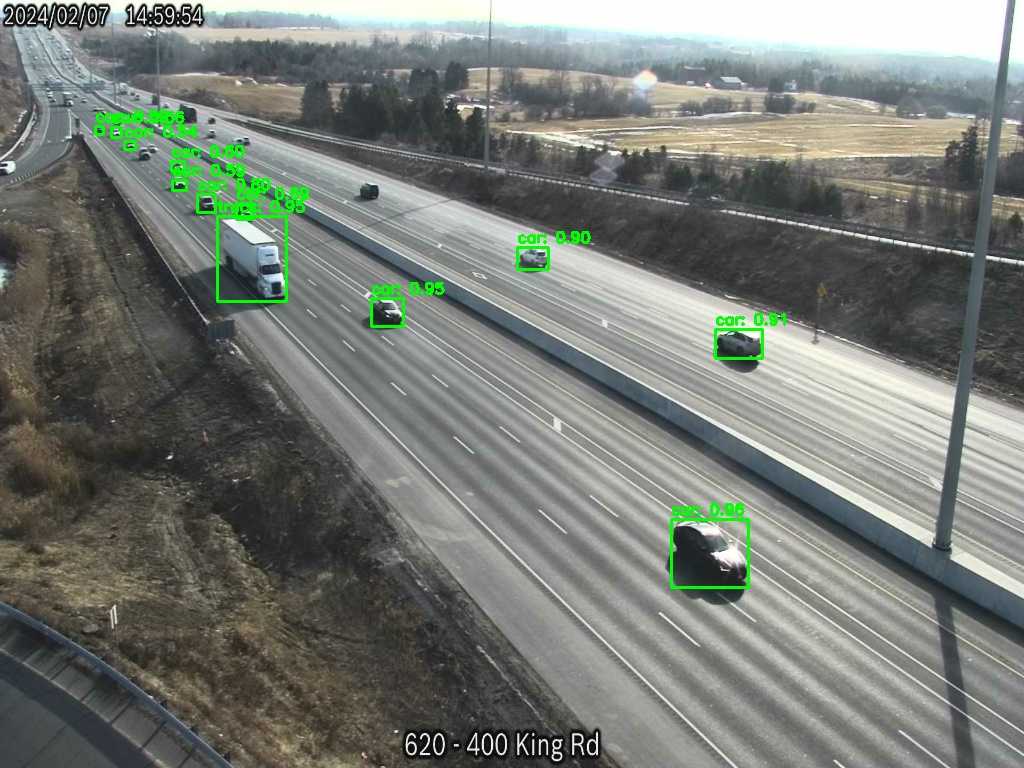
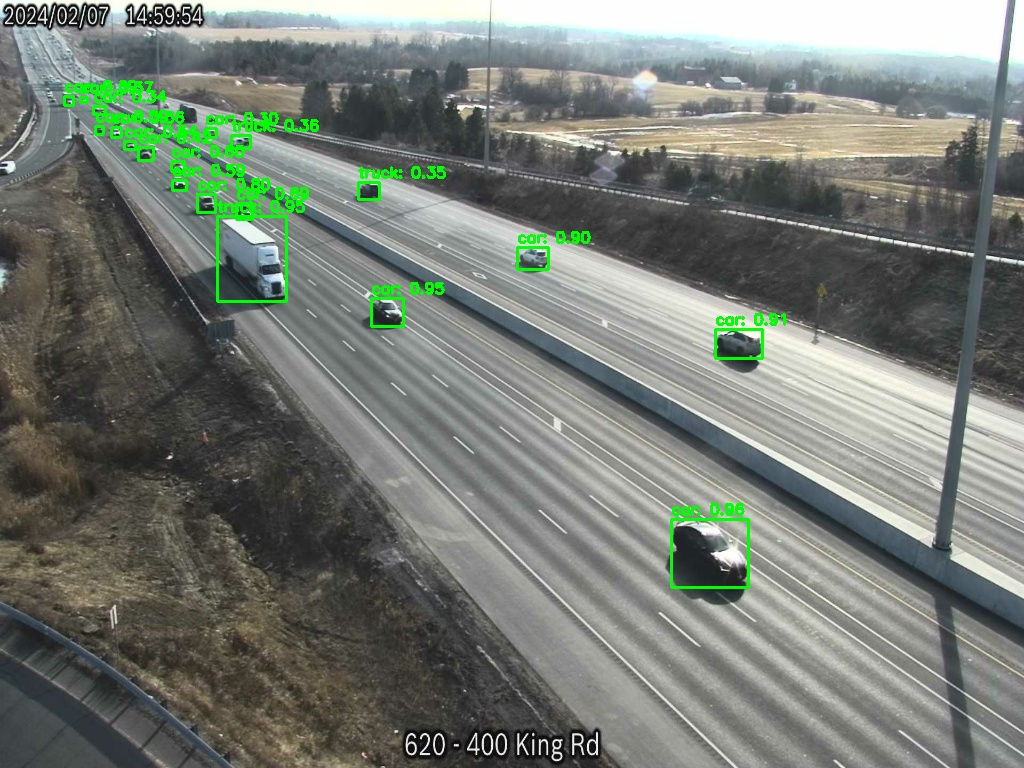
updated test photos, cleaned up main function

Changed region(s): [[0.0625, 0.0938, 0.3125, 0.2188], [0.3438, 0.2188, 0.4375, 0.2812]]

diff --git a/cv/main.py b/cv/main.py
@@ -30,7 +30,7 @@ def trained_yolov4_model():
         training=False,
         yolo_max_boxes=100,
         yolo_iou_threshold=0.5,
-        yolo_score_threshold=0.50,
+        yolo_score_threshold=0.30,
     )
     model.load_weights('yolov4.h5')
     return model
@@ -99,25 +99,6 @@ def Car_detection_single_photo(input_photo):
     image= cv2.cvtColor(image, cv2.COLOR_BGR2RGB)
     return image
 
-def Car_detection_video(input_video_name, output_video_name, frames_to_save = 50):
-    model = trained_yolov4_model()
-    # load video
-    my_video = cv2.VideoCapture(input_video_name)
-    # write resulted frames to file
-    out = cv2.VideoWriter(output_video_name, cv2.VideoWriter_fourcc(*'MJPG'), 30, (WIDTH ,HEIGHT))
-    success = 1
-    i = 0
-    while success and i < frames_to_save:                                 # While there are more frames in the video
-        # function extract frames
-        success, image = my_video.read()                                  # extract a frame
-        if success:
-            result_img = proccess_frame(tf.convert_to_tensor(image), model)   # tag cars on the frame
-
-            out.write((result_img*255).astype('uint8'))                                             # write resulted frame to the video file
-            i = i + 1
-            print(i)
-    out.release()                                                         # Close the video writer
-
 #######   main   ####################################################################
 
 if __name__ == "__main__":
@@ -131,5 +112,3 @@ if __name__ == "__main__":
     cv2.destroyAllWindows()
     # Save photo
     cv2.imwrite(imagefile+'_object_detected.jpg', output_image*255)
-    ####   Detect Cars on a video and save ######
-    ##Car_detection_video(input_video_name='photos/car_chase_01.mp4', output_video_name ='photos/delete.avi', frames_to_save = 20)
